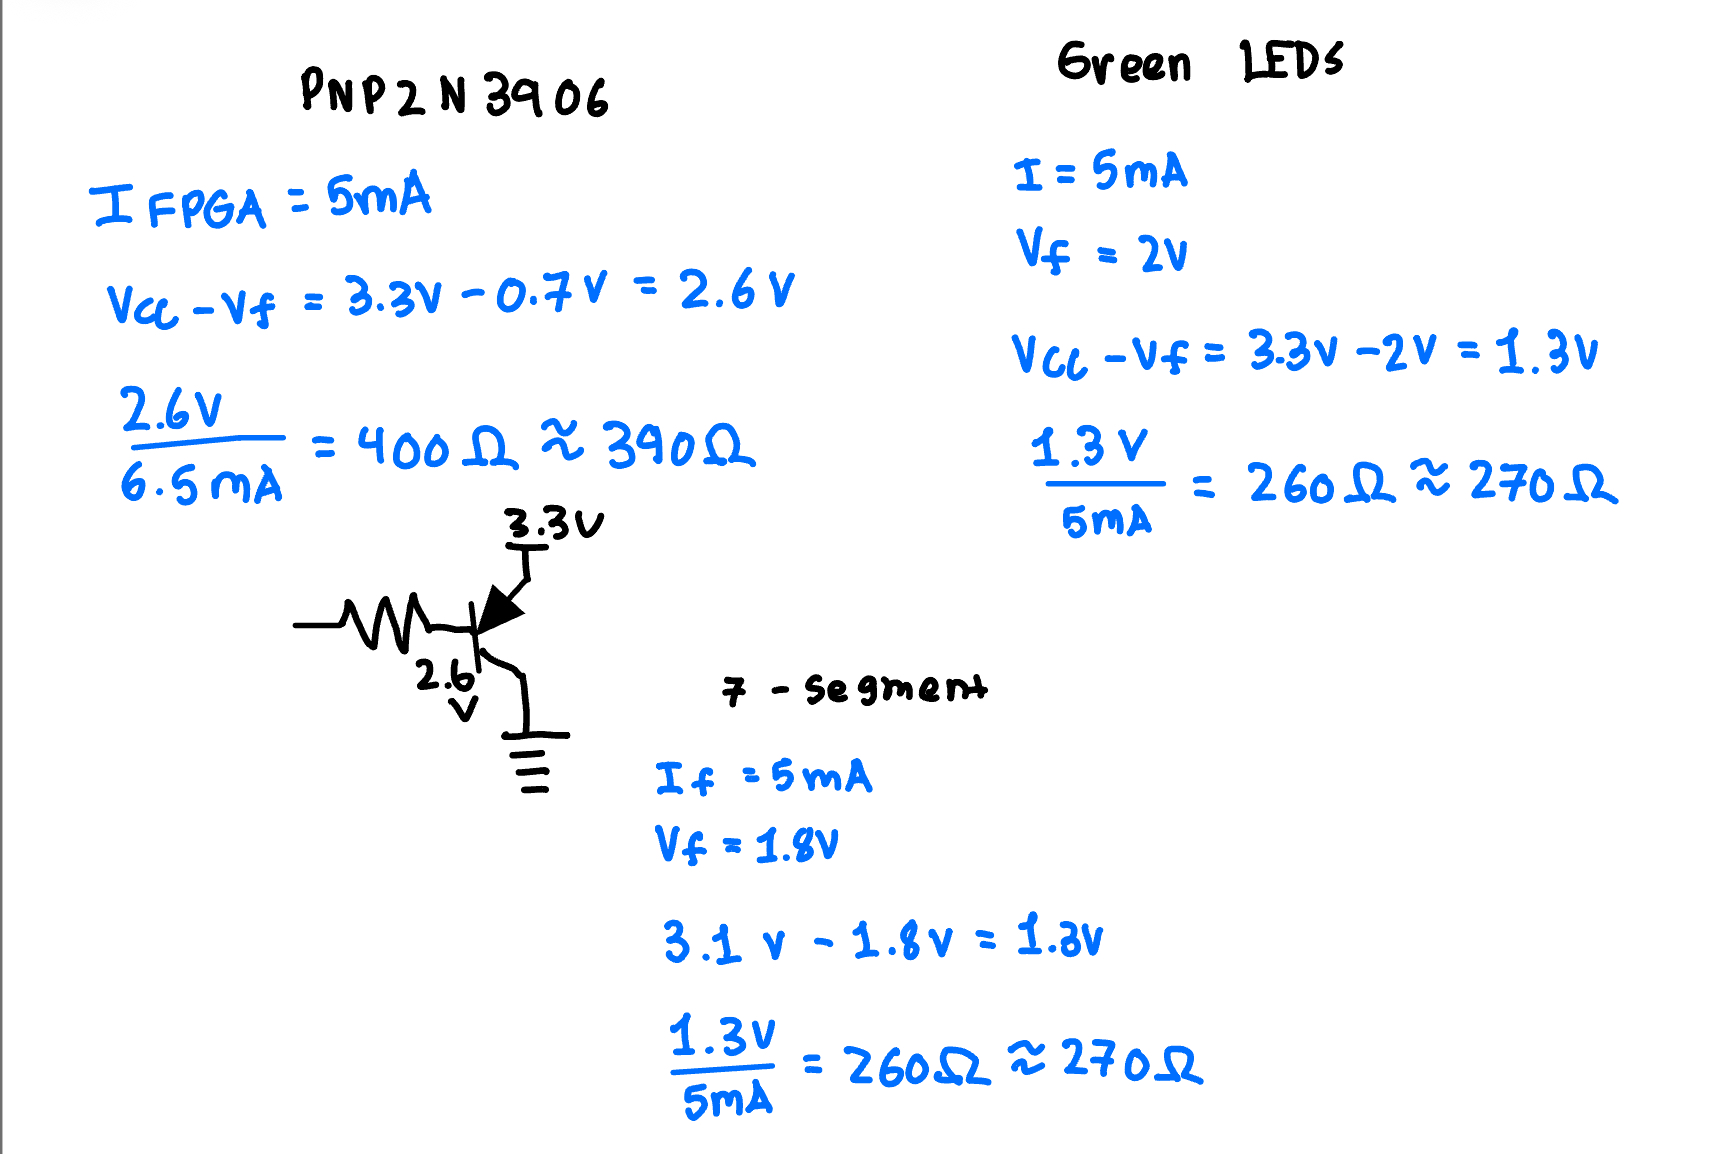
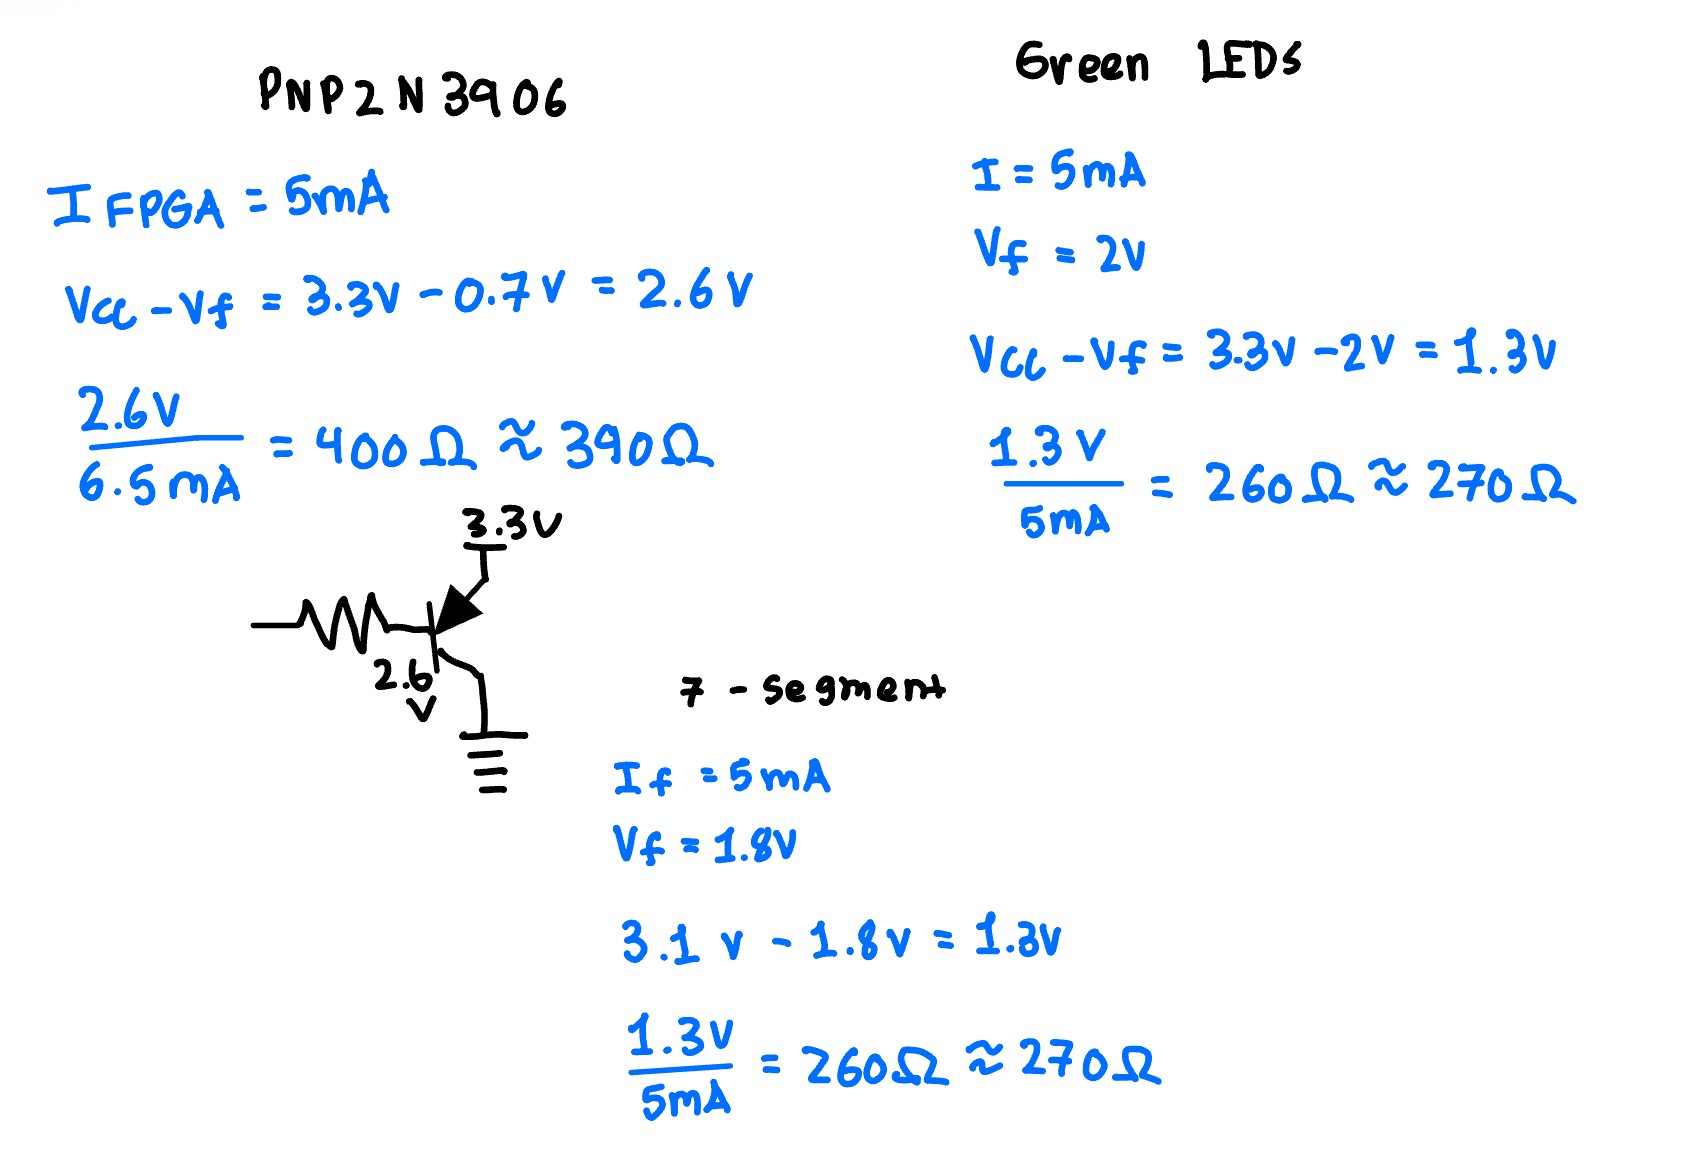
Built site for gh-pages

diff --git a/LAB2.html b/LAB2.html
@@ -74,35 +74,6 @@ ul.task-list li input[type="checkbox"] {
   }
 }</script>
 
-  <script src="https://cdnjs.cloudflare.com/polyfill/v3/polyfill.min.js?features=es6"></script>
-  <script defer="" src="https://cdn.jsdelivr.net/npm/mathjax@4/tex-chtml.js" type="text/javascript"></script>
-
-<script type="text/javascript">
-const typesetMath = (el) => {
-  if (window.MathJax) {
-    // MathJax Typeset
-    window.MathJax.typeset([el]);
-  } else if (window.katex) {
-    // KaTeX Render
-    var mathElements = el.getElementsByClassName("math");
-    var macros = [];
-    for (var i = 0; i < mathElements.length; i++) {
-      var texText = mathElements[i].firstChild;
-      if (mathElements[i].tagName == "SPAN" && texText && texText.data) {
-        window.katex.render(texText.data, mathElements[i], {
-          displayMode: mathElements[i].classList.contains('display'),
-          throwOnError: false,
-          macros: macros,
-          fleqn: false
-        });
-      }
-    }
-  }
-}
-window.Quarto = {
-  typesetMath
-};
-</script>
 
 <link rel="stylesheet" href="styles.css">
 </head>
@@ -210,7 +181,7 @@ window.Quarto = {
 <section id="time-multiplexing-setup" class="level3">
 <h3 class="anchored" data-anchor-id="time-multiplexing-setup">Time-Multiplexing Setup</h3>
 <p>Time-multiplexing allows a common hardware resource to be shared for several purposes at different times. A single seven-segment decoder was used to drive both digits of the display. To control which digit was active, the common anode of each display was toggled sequentially. Because the anode requires more current than the FPGA can directly supply, 2N3906 PNP transistors were utilized to switch the current.</p>
-<p><img src="images/breadboard.jpg" class="img-fluid" alt="Complete Dual Seven Segment Display and Keypad Breadboard."> <em>Figure 1: Complete Dual Seven Segment Display and Keypad Breadboard.</em></p>
+<p><img src="images/lab2_circuit.jpg" class="img-fluid" alt="Complete Dual Seven Segment Display and Keypad Breadboard."> <em>Figure 1: Complete Dual Seven Segment Display and Keypad Breadboard.</em></p>
 </section>
 <section id="matrix-keypad-scanning" class="level3">
 <h3 class="anchored" data-anchor-id="matrix-keypad-scanning">Matrix Keypad Scanning</h3>
@@ -272,7 +243,7 @@ window.Quarto = {
 <section id="documentation" class="level2">
 <h2 class="anchored" data-anchor-id="documentation">Documentation</h2>
 <p>The design includes a single time-multiplexed seven-segment decoder module, a counter module, a scanning module, and a top-level module. The top-level design only includes instances of these submodules and <code>assign</code> statements to route the multiplexing and scanning logic. <em>Figure 1</em> below shows the block diagram of the system.</p>
-<p><img src="images/block_2.png" class="img-fluid" alt="Block diagram of the top-level module and submodules."> <em>Figure 1: Block diagram representing the logic structure.</em></p>
+<p><img src="images/lab2_block.png" class="img-fluid" alt="Block diagram of the top-level module and submodules."> <em>Figure 1: Block diagram representing the logic structure.</em></p>
 <section id="counter-state-machines" class="level3">
 <h3 class="anchored" data-anchor-id="counter-state-machines">Counter &amp; State Machines</h3>
 <p>All counting logic was handled by a single module. This module was instantiated twice in the top level. The first instance (<code>mux_cntr</code>) was parameterized to 17 bits to divide the 24 MHz clock down to a smaller frequency, ensuring the switching is imperceptible to the human eye.</p>
@@ -281,34 +252,35 @@ window.Quarto = {
 <section id="schematic-electrical-calculations" class="level3">
 <h3 class="anchored" data-anchor-id="schematic-electrical-calculations">Schematic &amp; Electrical Calculations</h3>
 <p><em>Figure 2</em> shows the complete schematic detailing the off-board components, including the 4x4 keypad, the dual 7-segment display, the LEDs, and the transistor driver circuits.</p>
-<p><img src="images/schematic_2.jpg" class="img-fluid" alt="Schematic showing the open-drain NPN rows, PNP anodes, and LED wiring."> <em>Figure 2: Schematic of off-board components and transistor circuits.</em></p>
+<p><img src="images/lab2_schematic.jpg" class="img-fluid" alt="Schematic showing the open-drain NPN rows, PNP anodes, and LED wiring."> <em>Figure 2: Schematic of off-board components and transistor circuits.</em></p>
 <p>Calculations were performed to ensure current draw and sink on all FPGA pins remained below the recommended limits. According to the iCE40 UltraPlus data sheet, the maximum output low current and output high current for the LVCMOS 3.3V standard is 8 mA.</p>
-<p><em>Figure 3</em> provides the calculations for the series base resistors used on the NPN and PNP transistors. Accounting for a 3.3V logic high and a typical 0.7V base-emitter forward voltage, 1 k<span class="math inline">\(\Omega\)</span> resistors were selected to limit the FPGA pin current to 2.6 mA, well below the 8 mA threshold.</p>
+<p><em>Figure 3</em> provides the calculations for the series base resistors used on the NPN and PNP transistors. Accounting for a 3.3V logic high and a typical 0.7V base-emitter forward voltage, resistors were selected to limit the FPGA pin current well below the 8 mA threshold.</p>
 <p><img src="images/Calculations_2.jpg" class="img-fluid" alt="Calculations to justify the base resistor values and verify safe FPGA current limits."> <em>Figure 3: Calculations to justify the transistor resistor values.</em></p>
 <hr>
 </section>
 </section>
 <section id="results" class="level2">
 <h2 class="anchored" data-anchor-id="results">Results</h2>
-<p>Testbenches were developed to verify the modules automatically. The seven-segment decoder testbench verified all 16 hexadecimal states. The scanner testbench simulated massive delays to verify the active-low reset, the enable function, and all four state transitions. The top-level testbench exercised the multiplexer toggling and the combinational keypad logic.</p>
-<p><em>Figure 4</em>, <em>Figure 5</em>, <em>Figure 6</em>, and <em>Figure 7</em> show the Questa Sim waveforms confirming the logic behaves exactly as intended.</p>
-<p><img src="images/waves_counter.png" class="img-fluid" alt="Questa Sim waveform confirming the counter logic."> <em>Figure 4: Questa Sim waveform confirming the counter logic.</em></p>
-<p><img src="images/waves_scanner.png" class="img-fluid" alt="Questa Sim waveform confirming the scanner state transitions."> <em>Figure 5: Questa Sim waveform confirming the scanner state transitions.</em></p>
-<p><img src="images/waves_top.png" class="img-fluid" alt="Questa Sim waveform confirming the top-level multiplexing."> <em>Figure 6: Questa Sim waveform confirming the top-level multiplexing.</em></p>
-<p><img src="images/waves_seven.png" class="img-fluid" alt="Questa Sim waveform confirming the seven_segment display working."> <em>Figure 7: Questa Sim waveform confirming the seven segment display working.</em></p>
+<p>Testbenches were developed to verify the modules automatically. The scanner testbench simulated massive delays to verify the active-low reset, the enable function, and all four state transitions. The top-level testbench exercised the multiplexer toggling and the combinational keypad logic.</p>
+<p><em>Figure 4</em> and <em>Figure 5</em> show the Questa Sim waveforms confirming the logic behaves exactly as intended.</p>
+<p><img src="images/scanner_lab2.png" class="img-fluid" alt="Questa Sim waveform confirming the scanner state transitions."> <em>Figure 4: Questa Sim waveform confirming the scanner state transitions.</em></p>
+<p><img src="images/lab2_top.png" class="img-fluid" alt="Questa Sim waveform confirming the top-level multiplexing."> <em>Figure 5: Questa Sim waveform confirming the top-level multiplexing.</em></p>
 <hr>
 </section>
 <section id="conclusion" class="level2">
 <h2 class="anchored" data-anchor-id="conclusion">Conclusion</h2>
-<p>The multiplexed dual display and the matrix keypad scanner were successfully implemented. The modular Verilog structure behaved seamlessly during simulation, and the physical open-drain and high-side transistor circuits operated the hardware safely. The design meets all specifications outlined for Lab 2. The lab took a total of 19 hours to complete.</p>
+<p>The multiplexed dual display and the matrix keypad scanner were successfully implemented. The Verilog structure behaved as intended and the open-drain and high-side transistor circuits operated the hardware safely. The design meets all specifications outlined for Lab 2. The lab took a total of 23 hours to complete.</p>
 <hr>
 </section>
 <section id="ai-reflection" class="level2">
 <h2 class="anchored" data-anchor-id="ai-reflection">AI Reflection</h2>
-<p><strong>AI Prompt:</strong> Write SystemVerilog HDL to time multiplex a single seven segment decoder (that decodes from four bits to a common anode seven segment display) to decode two sets of input bits and drive two sets of seven output bits.</p>
-<p>ChatGPT6 was not able to produce synthesizeable code.</p>
-<p><strong>AI Prompt:</strong> Write SystemVerilog HDL to time multiplex a single seven segment decoder (that decodes from four bits to a common anode seven segment display) to decode two sets of input bits and drive two sets of seven output bits. Use the seven segment decoder and oscillator provided in the attached files.</p>
-<p>With context, ChatGPT6 was able to provide synthesizable code.</p>
+<p><strong>AI Prompt 1 (Without Context):</strong> Write SystemVerilog HDL to time multiplex a single seven segment decoder (that decodes from four bits to a common anode seven segment display) to decode two sets of input bits and drive two sets of seven output bits.</p>
+<p><strong>AI Prompt 2 (With Lab 1 Context Attached):</strong> Write SystemVerilog HDL to time multiplex a single seven segment decoder (that decodes from four bits to a common anode seven segment display) to decode two sets of input bits and drive two sets of seven output bits. Use the seven segment decoder and oscillator provided in the attached files.</p>
+<p><strong>Reflection on the AI Prototype:</strong></p>
+<p>When given the first prompt with no context, ChatGPT-5 generated a generic multiplexer. It created its own seven-segment case statement from scratch and used an arbitrary clk input. It also implemented a sequential flip-flop block to alternate registering the outputs to two completely separate 7-bit buses (<code>seg0</code> and <code>seg1</code>).</p>
+<p>Adding the Lab 1 files as context in the second prompt improved the hardware accuracy of the response. ChatGPT correctly instantiated the Lattice <code>HSOSC</code> to generate the clock, reused my exact <code>seven_segment</code> combinational module from Lab 1, and implemented a proper counter to divide the 24 MHz clock down to a 1 kHz switching frequency.</p>
+<p>However, the generated code still contained flaws based on my prompt’s phrasing. Because I asked it to drive two sets of seven output bits, the LLM created two 7-bit outputs (<code>seg0</code> and <code>seg1</code>). In reality, time-multiplexing a dual display involves sharing a single 7-bit segment bus and using transistors to toggle the common anodes one at a time.</p>
+<p>I would rate the quality of the output an 8/10. The SystemVerilog syntax was great and it correctly utilized <code>always_comb</code> and <code>always_ff</code> blocks. The code would synthesize in Lattice Radiant the first time around without syntax errors.</p>
 
 
 </section>
